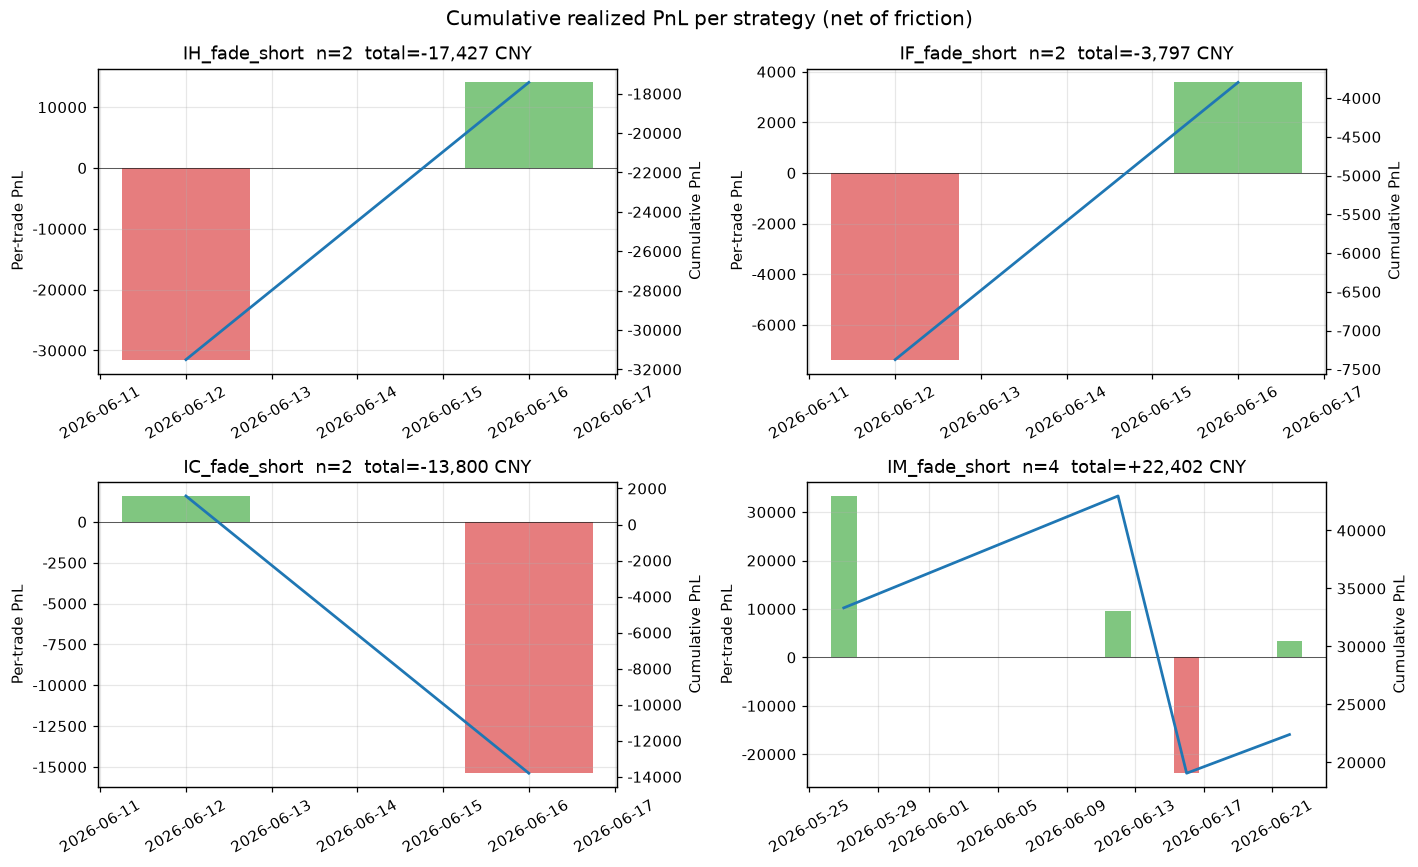
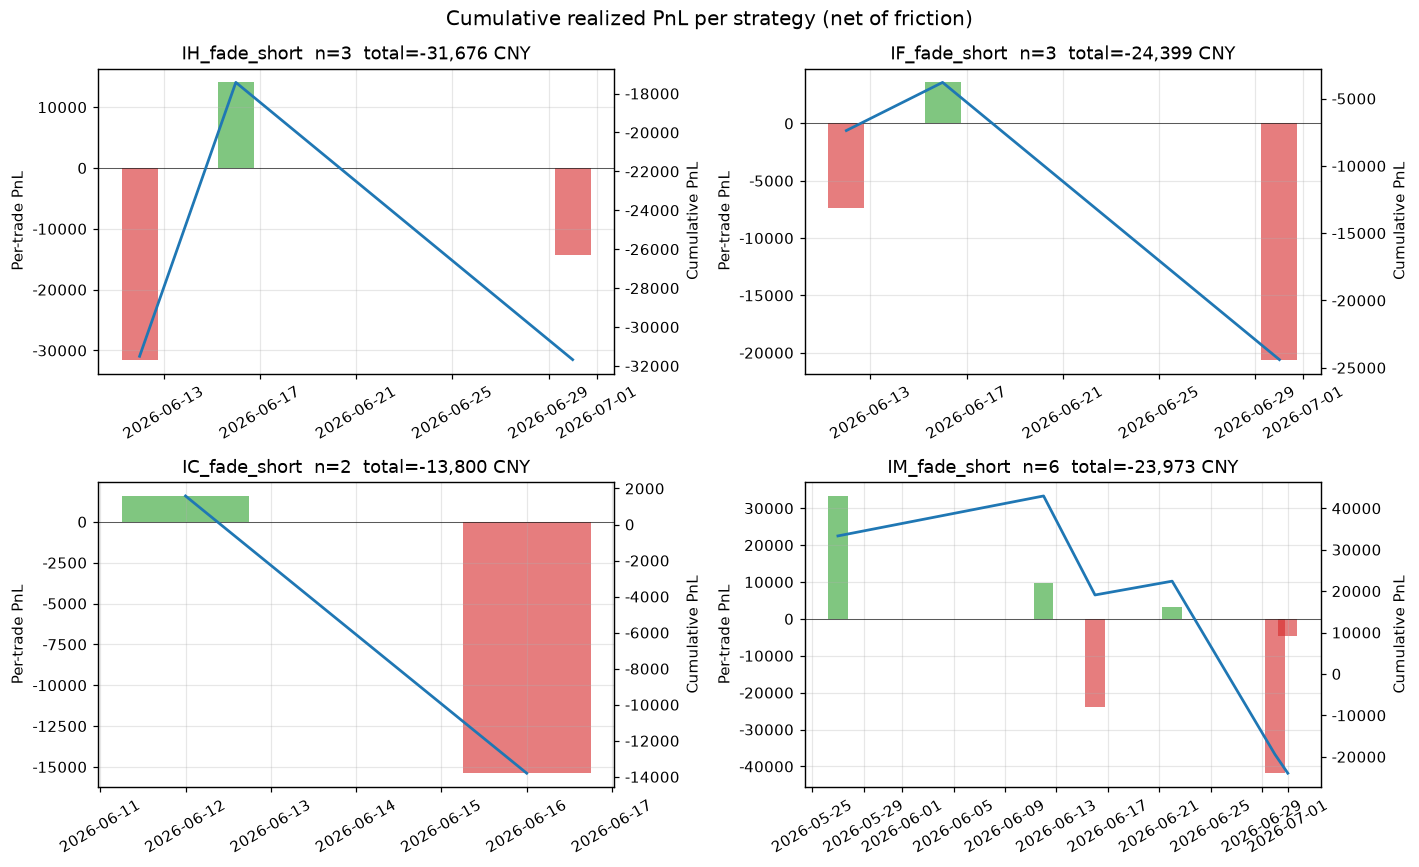
Weekly review 2026-07-03 (alerts=0)

diff --git a/weekly_review.md b/weekly_review.md
@@ -1,4 +1,4 @@
-## Weekly Review — 2026-06-26
+## Weekly Review — 2026-07-03
 
 _Window: rolling Sharpe over last 30 trades; loss-streak window 10 trades; decay alert if realised < 50% of historical_
 
@@ -7,9 +7,9 @@ _Window: rolling Sharpe over last 30 trades; loss-streak window 10 trades; decay
 ### Performance summary
 | Strategy | Trades | Hit % | Mean bps | Realised Sharpe | Rolling Sharpe | Historical | Cum PnL | Last10 PnL | Alerts |
 |----------|--------|-------|----------|----------------|---------------|------------|---------|-----------|--------|
-| IH_fade_short | 2 | 50.0% | -51.8 | -1.031 | — | 0.76 | -17,427 | -17,427 | — |
-| IF_fade_short | 2 | 50.0% | -14.0 | -0.949 | — | 0.68 | -3,797 | -3,797 | — |
+| IH_fade_short | 3 | 33.3% | -61.6 | -1.724 | — | 0.76 | -31,676 | -31,676 | — |
+| IF_fade_short | 3 | 33.3% | -57.1 | -2.536 | — | 0.68 | -24,399 | -24,399 | — |
 | IC_fade_short | 2 | 50.0% | -42.0 | -2.148 | — | 0.49 | -13,800 | -13,800 | — |
-| IM_fade_short | 4 | 75.0% | +31.6 | 1.432 | — | 0.74 | +22,402 | +22,402 | — |
+| IM_fade_short | 6 | 50.0% | -25.4 | -1.026 | -1.026 | 0.74 | -23,973 | -23,973 | — |
 
 _Charts: rolling_sharpe.png + cumulative_pnl.png in repo_
